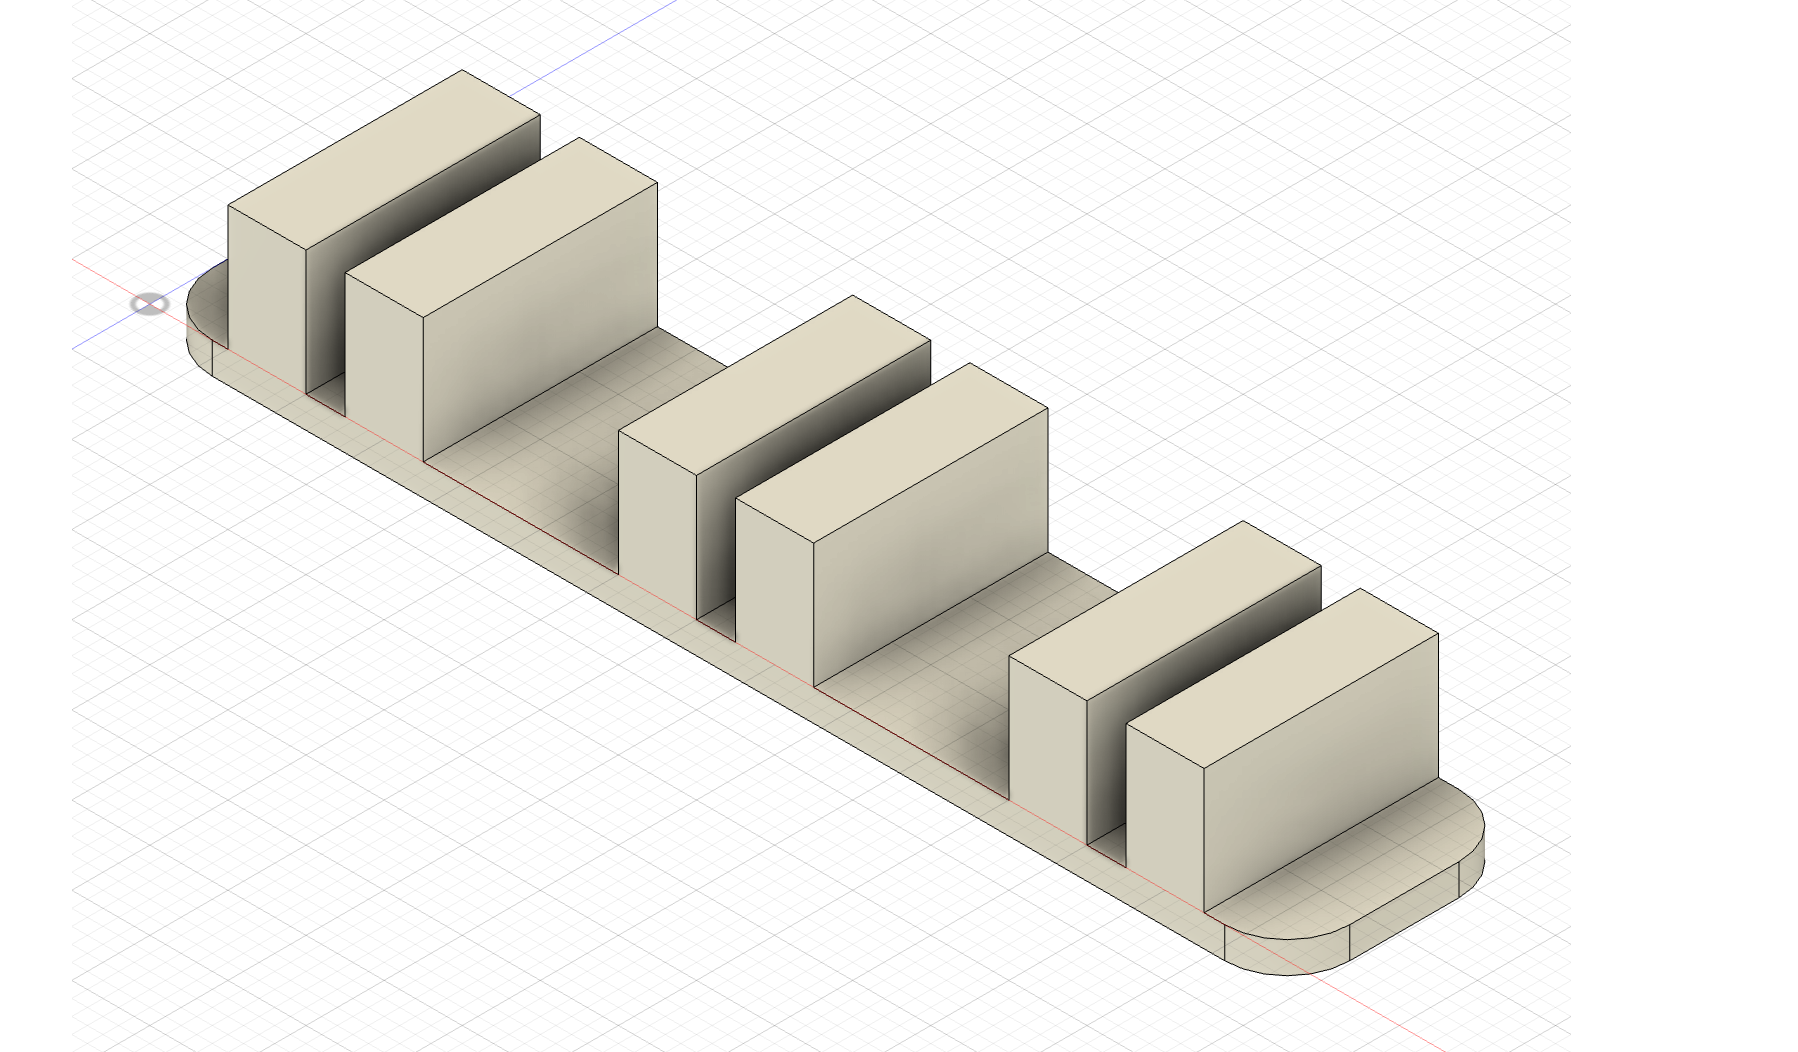
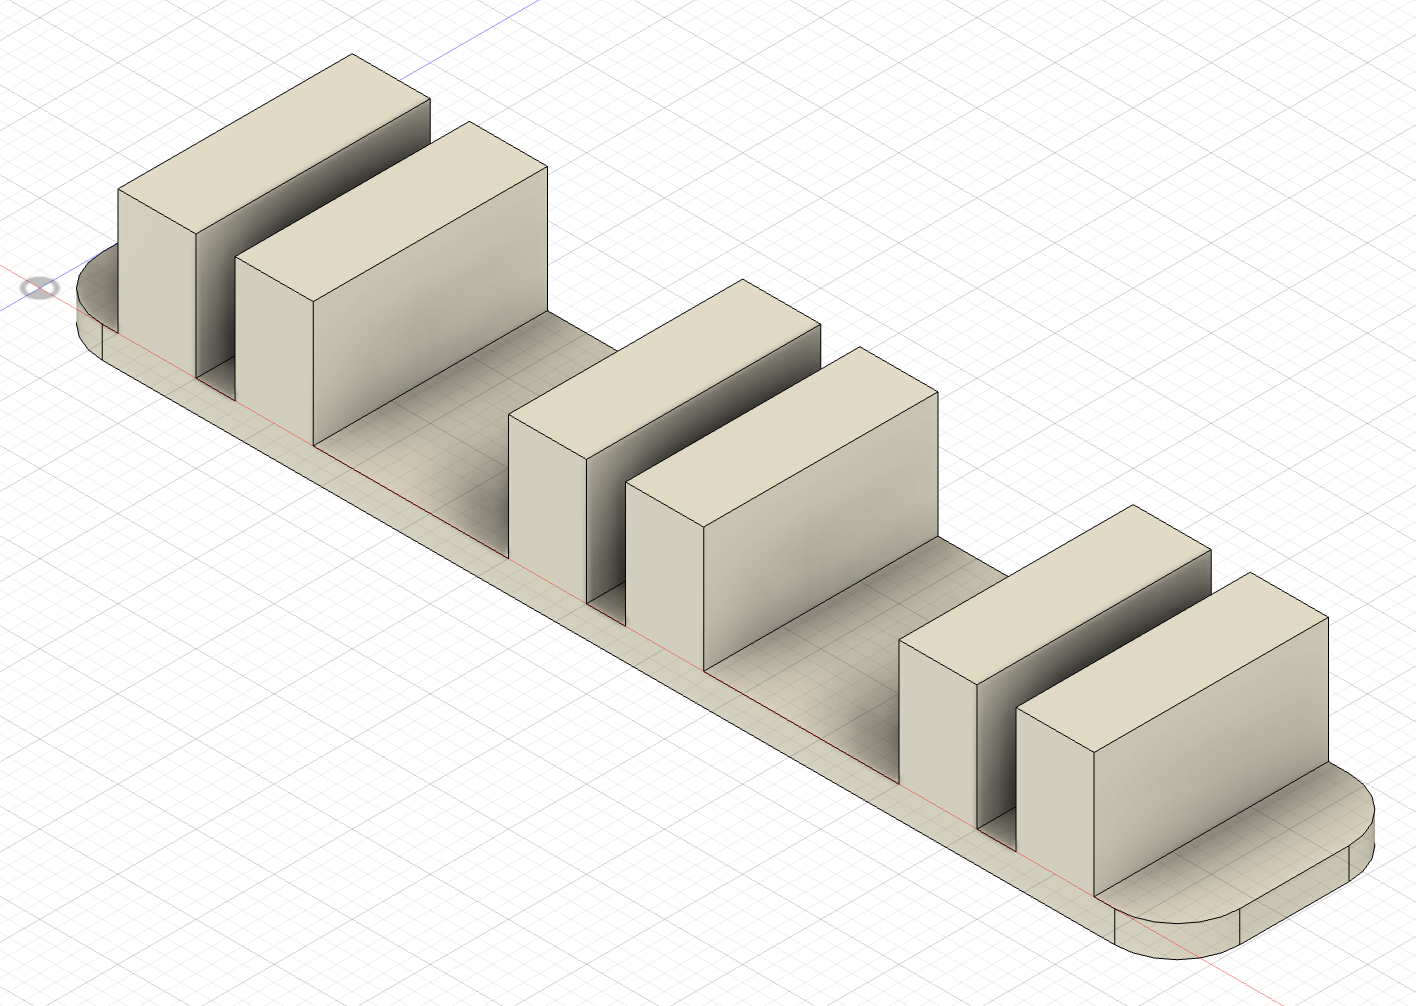
descpriotoins

diff --git a/work.html b/work.html
@@ -27,7 +27,7 @@
     <div class="wrap">
       <span class="eyebrow">My Work</span>
       <h1>A Running Portfolio</h1>
-      <p class="lede">Creating things that make life more convenient and fun!</p>
+      <p>Creating things that make life more convenient and fun!</p>
       <p>3D Models can be clicked on for my brainstorming process.</p>
     </div>
   </section>
@@ -51,7 +51,7 @@
         </div>
         <div class="work-info">
           <h3>Boeing 737</h3>
-          <p>xxx</p>
+          <p>An ambitious but fulfilling project!</p>
         </div>
       </a>
 
@@ -62,7 +62,7 @@
         </div>
         <div class="work-info">
           <h3>Pomodoro Timer</h3>
-          <p>xxx</p>
+          <p>Something to help me study.</p>
         </div>
       </a>
 
@@ -73,7 +73,7 @@
         </div>
         <div class="work-info">
           <h3>Charger Organizer</h3>
-          <p>xxx</p>
+          <p>To keep track of messy cables.</p>
         </div>
       </a>
 
@@ -95,7 +95,7 @@
         </div>
         <div class="work-info">
           <h3>Red Lotus</h3>
-          <p>xxx</p>
+          <p>Playing around with freeform surfaces.</p>
         </div>
       </a>
 
@@ -106,7 +106,7 @@
         </div>
         <div class="work-info">
           <h3>Pear Study</h3>
-          <p>xxx</p>
+          <p>Practicing shadows and color theory.</p>
         </div>
       </a>
 
@@ -116,7 +116,7 @@
           <img src="images/Beaver.png" alt="beaver">
         </div>
         <div class="work-info">
-          <h3>Beaver and a Rock</h3>
+          <h3>A Beaver and a Rock</h3>
           <p>One of my first oil paintings!</p>
         </div>
       </a>
@@ -128,7 +128,7 @@
         </div>
         <div class="work-info">
           <h3>Flower Study</h3>
-          <p>xxx</p>
+          <p>Practicing blending.</p>
         </div>
       </a>
 
@@ -139,7 +139,7 @@
         </div>
         <div class="work-info">
           <h3>Plate Study</h3>
-          <p>xxx</p>
+          <p>One of my first throws ever!</p>
         </div>
       </a>
 
